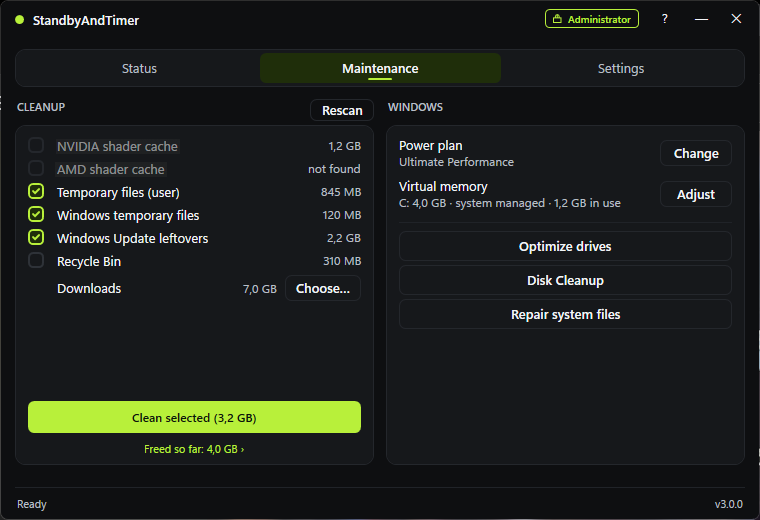
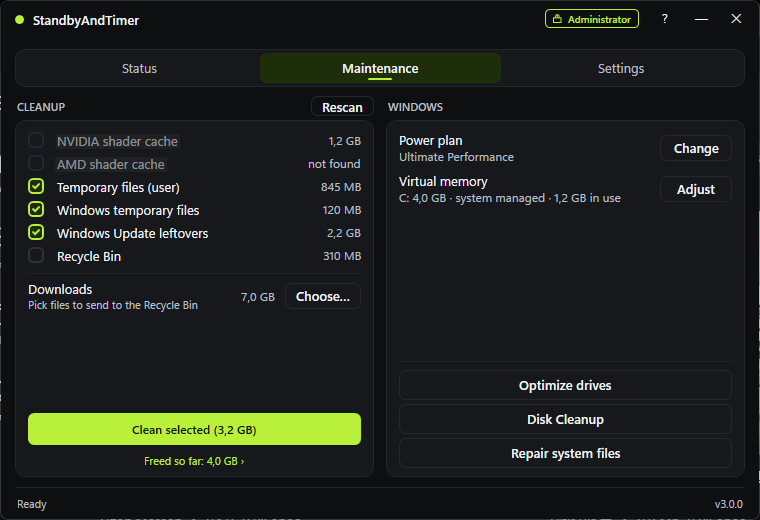
fix(maintenance): cards line up with the other pages, tools at the bottom
Both cards now start and end where the Status and Settings cards do (no
bottom margin, Rescan sized like the log Refresh). Windows' tools sit at the
bottom of their card; Downloads is its own section with a short hint.

diff --git a/StandbyAndTimer/Views/MaintenancePanelView.xaml b/StandbyAndTimer/Views/MaintenancePanelView.xaml
@@ -35,15 +35,18 @@
 
         <Grid Grid.Row="0" Grid.Column="0">
             <TextBlock Text="{DynamicResource Str_Maint_CleanupSection}" Style="{StaticResource PageSectionLabelStyle}"/>
-            <!-- Rescan: the sizes are read once on selection; this reads them again. -->
+            <!-- Rescan: the sizes are read once on selection; this reads them again.
+                 Sized and pulled up like Settings' log Refresh, so the label row keeps
+                 its height and both cards line up with the other pages. -->
             <Button Content="{DynamicResource Str_Maint_Rescan}" Command="{Binding RescanCommand}"
-                    Style="{StaticResource GhostButtonStyle}" Height="22" MinWidth="64" FontSize="11" Padding="8,0"
-                    HorizontalAlignment="Right" VerticalAlignment="Top" Margin="0,0,0,4"/>
+                    Style="{StaticResource GhostButtonStyle}" Height="20" Padding="10,0" FontSize="10"
+                    HorizontalAlignment="Right" VerticalAlignment="Top" Margin="0,-3,0,4"/>
         </Grid>
         <TextBlock Grid.Row="0" Grid.Column="2" Text="{DynamicResource Str_Maint_WindowsSection}" Style="{StaticResource PageSectionLabelStyle}"/>
 
         <!-- ═══════════════ LEFT: CLEANUP ═══════════════ -->
-        <Border Grid.Row="1" Grid.Column="0" Style="{StaticResource SettingsGroupStyle}">
+        <!-- Margin 0: the cards reach the page bottom like the Status and Settings cards. -->
+        <Border Grid.Row="1" Grid.Column="0" Style="{StaticResource SettingsGroupStyle}" Margin="0">
             <Grid>
                 <Grid.RowDefinitions>
                     <RowDefinition Height="Auto"/>  <!-- rows -->
@@ -88,23 +91,26 @@
                     </ItemsControl.ItemTemplate>
                 </ItemsControl>
 
-                <Grid Grid.Row="1" Margin="0,3" Background="Transparent" ToolTip="{DynamicResource Str_CleanTip_downloads}">
-                    <Grid.ColumnDefinitions>
-                        <ColumnDefinition Width="Auto"/>
-                        <ColumnDefinition Width="*"/>
-                        <ColumnDefinition Width="Auto"/>
-                        <ColumnDefinition Width="Auto"/>
-                    </Grid.ColumnDefinitions>
-                    <!-- No tick for Downloads; an invisible check box keeps the name in line with the rows above. -->
-                    <CheckBox Style="{StaticResource DarkCheckBoxStyle}" Visibility="Hidden" Focusable="False" IsTabStop="False"
-                              VerticalAlignment="Center"/>
-                    <TextBlock Grid.Column="1" Text="{DynamicResource Str_Clean_downloads}"
-                               Style="{StaticResource SettingTitleStyle}" VerticalAlignment="Center" Margin="6,0,10,0"/>
-                    <TextBlock Grid.Column="2" Text="{Binding DownloadsSizeText}" Style="{StaticResource ValueTextStyle}" Margin="0,0,8,0"/>
-                    <Button Grid.Column="3" Content="{DynamicResource Str_Maint_Choose}"
-                            Command="{Binding OpenDownloadsCommand}"
-                            Style="{StaticResource GhostButtonStyle}" Height="26" Padding="10,0" MinWidth="64"/>
-                </Grid>
+                <!-- Downloads: the user's own files, so its own small section under a
+                     divider: name and hint on the left, size and Choose on the right. -->
+                <StackPanel Grid.Row="1">
+                    <Border Height="1" Margin="0,6,0,6" Background="{DynamicResource SeparatorBrush}"/>
+                    <Grid Background="Transparent" ToolTip="{DynamicResource Str_CleanTip_downloads}">
+                        <Grid.ColumnDefinitions>
+                            <ColumnDefinition Width="*"/>
+                            <ColumnDefinition Width="Auto"/>
+                            <ColumnDefinition Width="Auto"/>
+                        </Grid.ColumnDefinitions>
+                        <StackPanel VerticalAlignment="Center" Margin="0,0,10,0">
+                            <TextBlock Text="{DynamicResource Str_Clean_downloads}" Style="{StaticResource SettingTitleStyle}"/>
+                            <TextBlock Text="{DynamicResource Str_Maint_DownloadsHint}" Style="{StaticResource ValueTextStyle}" FontSize="11"/>
+                        </StackPanel>
+                        <TextBlock Grid.Column="1" Text="{Binding DownloadsSizeText}" Style="{StaticResource ValueTextStyle}" Margin="0,0,10,0"/>
+                        <Button Grid.Column="2" Content="{DynamicResource Str_Maint_Choose}"
+                                Command="{Binding OpenDownloadsCommand}"
+                                Style="{StaticResource GhostButtonStyle}" Height="26" Padding="10,0" MinWidth="72" VerticalAlignment="Center"/>
+                    </Grid>
+                </StackPanel>
 
                 <Button Grid.Row="3" Margin="0,8,0,0" Height="32"
                         Content="{Binding CleanButtonText}"
@@ -123,48 +129,51 @@
         </Border>
 
         <!-- ═══════════════ RIGHT: WINDOWS ═══════════════ -->
-        <Border Grid.Row="1" Grid.Column="2" Style="{StaticResource SettingsGroupStyle}">
-            <StackPanel>
-                <Grid Margin="0,2,0,4" Background="Transparent" ToolTip="{DynamicResource Str_Maint_PowerTip}">
-                    <Grid.ColumnDefinitions>
-                        <ColumnDefinition Width="*"/>
-                        <ColumnDefinition Width="Auto"/>
-                    </Grid.ColumnDefinitions>
-                    <StackPanel VerticalAlignment="Center" Margin="0,0,10,0">
-                        <TextBlock Text="{DynamicResource Str_Maint_PowerPlan}" Style="{StaticResource SettingTitleStyle}"/>
-                        <TextBlock Text="{Binding PowerPlanText}" Style="{StaticResource ValueTextStyle}"/>
-                    </StackPanel>
-                    <Button Grid.Column="1" Content="{DynamicResource Str_Maint_Change}"
-                            Command="{Binding OpenToolCommand}" CommandParameter="{x:Static models:SystemTool.PowerOptions}"
-                            Style="{StaticResource GhostButtonStyle}" Height="26" Padding="10,0" MinWidth="72" VerticalAlignment="Center"/>
-                </Grid>
-
-                <Grid Margin="0,4" Background="Transparent" ToolTip="{DynamicResource Str_Maint_AdjustTip}">
-                    <Grid.ColumnDefinitions>
-                        <ColumnDefinition Width="*"/>
-                        <ColumnDefinition Width="Auto"/>
-                    </Grid.ColumnDefinitions>
-                    <StackPanel VerticalAlignment="Center" Margin="0,0,10,0">
-                        <TextBlock Text="{DynamicResource Str_Maint_VirtualMemory}" Style="{StaticResource SettingTitleStyle}"/>
-                        <TextBlock Text="{Binding PageFileText}" Style="{StaticResource ValueTextStyle}" TextWrapping="Wrap" TextTrimming="None"/>
-                    </StackPanel>
-                    <Button Grid.Column="1" Content="{DynamicResource Str_Maint_Adjust}"
-                            Command="{Binding OpenToolCommand}" CommandParameter="{x:Static models:SystemTool.VirtualMemory}"
-                            Style="{StaticResource GhostButtonStyle}" Height="26" Padding="10,0" MinWidth="72" VerticalAlignment="Center"/>
-                </Grid>
-
-                <Border Height="1" Margin="0,8,0,4" Background="{DynamicResource SeparatorBrush}"/>
-
-                <Button Content="{DynamicResource Str_Maint_OptimizeDrives}" ToolTip="{DynamicResource Str_Maint_OptimizeDrivesTip}"
-                        Command="{Binding OpenToolCommand}" CommandParameter="{x:Static models:SystemTool.OptimizeDrives}"
-                        Style="{StaticResource ToolButtonStyle}"/>
-                <Button Content="{DynamicResource Str_Maint_DiskCleanup}" ToolTip="{DynamicResource Str_Maint_DiskCleanupTip}"
-                        Command="{Binding OpenToolCommand}" CommandParameter="{x:Static models:SystemTool.DiskCleanup}"
-                        Style="{StaticResource ToolButtonStyle}"/>
-                <Button Content="{Binding RepairButtonText}" ToolTip="{DynamicResource Str_Maint_RepairTip}"
-                        Command="{Binding OpenToolCommand}" CommandParameter="{x:Static models:SystemTool.RepairSystemFiles}"
-                        Style="{StaticResource ToolButtonStyle}"/>
-            </StackPanel>
+        <!-- Info on top, Windows' tools at the bottom, empty space between. -->
+        <Border Grid.Row="1" Grid.Column="2" Style="{StaticResource SettingsGroupStyle}" Margin="0">
+            <DockPanel LastChildFill="False">
+                <StackPanel DockPanel.Dock="Bottom">
+                    <Border Height="1" Margin="0,0,0,4" Background="{DynamicResource SeparatorBrush}"/>
+                    <Button Content="{DynamicResource Str_Maint_OptimizeDrives}" ToolTip="{DynamicResource Str_Maint_OptimizeDrivesTip}"
+                            Command="{Binding OpenToolCommand}" CommandParameter="{x:Static models:SystemTool.OptimizeDrives}"
+                            Style="{StaticResource ToolButtonStyle}"/>
+                    <Button Content="{DynamicResource Str_Maint_DiskCleanup}" ToolTip="{DynamicResource Str_Maint_DiskCleanupTip}"
+                            Command="{Binding OpenToolCommand}" CommandParameter="{x:Static models:SystemTool.DiskCleanup}"
+                            Style="{StaticResource ToolButtonStyle}"/>
+                    <Button Content="{Binding RepairButtonText}" ToolTip="{DynamicResource Str_Maint_RepairTip}"
+                            Command="{Binding OpenToolCommand}" CommandParameter="{x:Static models:SystemTool.RepairSystemFiles}"
+                            Style="{StaticResource ToolButtonStyle}"/>
+                </StackPanel>
+                <StackPanel DockPanel.Dock="Top">
+                    <Grid Margin="0,2,0,4" Background="Transparent" ToolTip="{DynamicResource Str_Maint_PowerTip}">
+                        <Grid.ColumnDefinitions>
+                            <ColumnDefinition Width="*"/>
+                            <ColumnDefinition Width="Auto"/>
+                        </Grid.ColumnDefinitions>
+                        <StackPanel VerticalAlignment="Center" Margin="0,0,10,0">
+                            <TextBlock Text="{DynamicResource Str_Maint_PowerPlan}" Style="{StaticResource SettingTitleStyle}"/>
+                            <TextBlock Text="{Binding PowerPlanText}" Style="{StaticResource ValueTextStyle}"/>
+                        </StackPanel>
+                        <Button Grid.Column="1" Content="{DynamicResource Str_Maint_Change}"
+                                Command="{Binding OpenToolCommand}" CommandParameter="{x:Static models:SystemTool.PowerOptions}"
+                                Style="{StaticResource GhostButtonStyle}" Height="26" Padding="10,0" MinWidth="72" VerticalAlignment="Center"/>
+                    </Grid>
+    
+                    <Grid Margin="0,4" Background="Transparent" ToolTip="{DynamicResource Str_Maint_AdjustTip}">
+                        <Grid.ColumnDefinitions>
+                            <ColumnDefinition Width="*"/>
+                            <ColumnDefinition Width="Auto"/>
+                        </Grid.ColumnDefinitions>
+                        <StackPanel VerticalAlignment="Center" Margin="0,0,10,0">
+                            <TextBlock Text="{DynamicResource Str_Maint_VirtualMemory}" Style="{StaticResource SettingTitleStyle}"/>
+                            <TextBlock Text="{Binding PageFileText}" Style="{StaticResource ValueTextStyle}" TextWrapping="Wrap" TextTrimming="None"/>
+                        </StackPanel>
+                        <Button Grid.Column="1" Content="{DynamicResource Str_Maint_Adjust}"
+                                Command="{Binding OpenToolCommand}" CommandParameter="{x:Static models:SystemTool.VirtualMemory}"
+                                Style="{StaticResource GhostButtonStyle}" Height="26" Padding="10,0" MinWidth="72" VerticalAlignment="Center"/>
+                    </Grid>
+                </StackPanel>
+            </DockPanel>
         </Border>
     </Grid>
 </UserControl>

diff --git a/StandbyAndTimer/Views/Strings/Strings.tr-TR.xaml b/StandbyAndTimer/Views/Strings/Strings.tr-TR.xaml
@@ -338,6 +338,7 @@
     <sys:String x:Key="Str_Maint_FreedSoFar">Şimdiye kadar boşaltılan: {0}  ›</sys:String>
     <sys:String x:Key="Str_Maint_HistoryTip">Bakım geçmişini görmek için tıkla</sys:String>
     <sys:String x:Key="Str_Maint_Choose">Seç…</sys:String>
+    <sys:String x:Key="Str_Maint_DownloadsHint">Geri Dönüşüm Kutusu'na gidecekleri seç</sys:String>
     <sys:String x:Key="Str_Maint_Rescan">Yenile</sys:String>
     <sys:String x:Key="Str_Maint_PowerPlan">Güç planı</sys:String>
     <sys:String x:Key="Str_Maint_PowerUnknown">bilinmiyor</sys:String>

diff --git a/StandbyAndTimer/Views/Strings/Strings.en-US.xaml b/StandbyAndTimer/Views/Strings/Strings.en-US.xaml
@@ -338,6 +338,7 @@
     <sys:String x:Key="Str_Maint_FreedSoFar">Freed so far: {0}  ›</sys:String>
     <sys:String x:Key="Str_Maint_HistoryTip">Click to see the maintenance history</sys:String>
     <sys:String x:Key="Str_Maint_Choose">Choose…</sys:String>
+    <sys:String x:Key="Str_Maint_DownloadsHint">Pick files to send to the Recycle Bin</sys:String>
     <sys:String x:Key="Str_Maint_Rescan">Rescan</sys:String>
     <sys:String x:Key="Str_Maint_PowerPlan">Power plan</sys:String>
     <sys:String x:Key="Str_Maint_PowerUnknown">unknown</sys:String>
